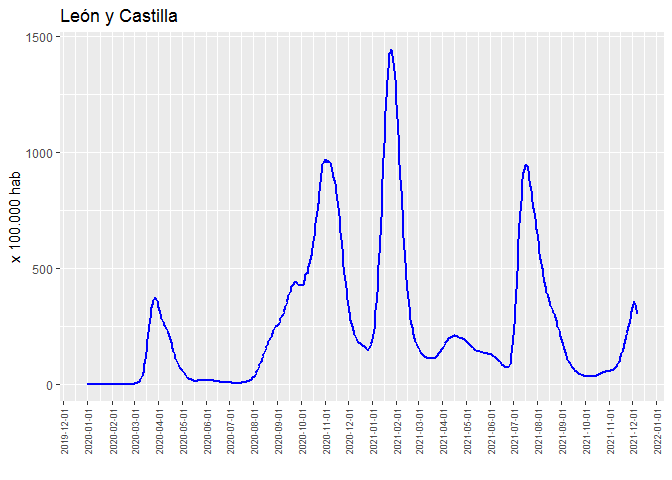
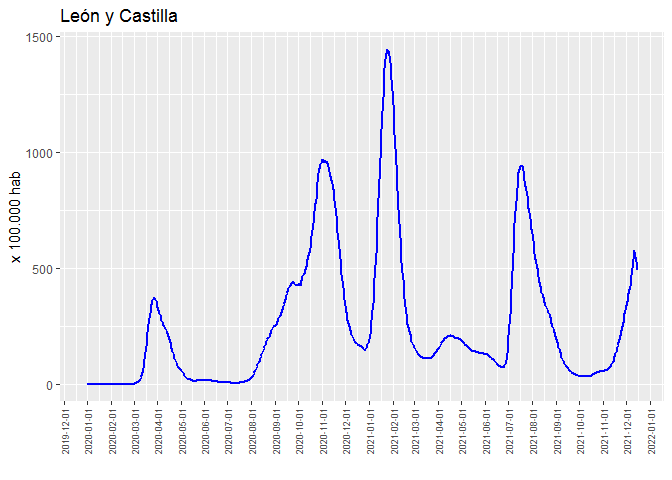
update

diff --git a/README.md b/README.md
@@ -1,7 +1,7 @@
 Covid-19: Incidencia acumulada
 ================
 JMSS \[Usal - CIC\]
-(updated: 10 dic 2021)
+(updated: 17 dic 2021)
 
 ### Incidencia acumulada del Covid19 a 14 días por cada 100.000 habitantes
 
